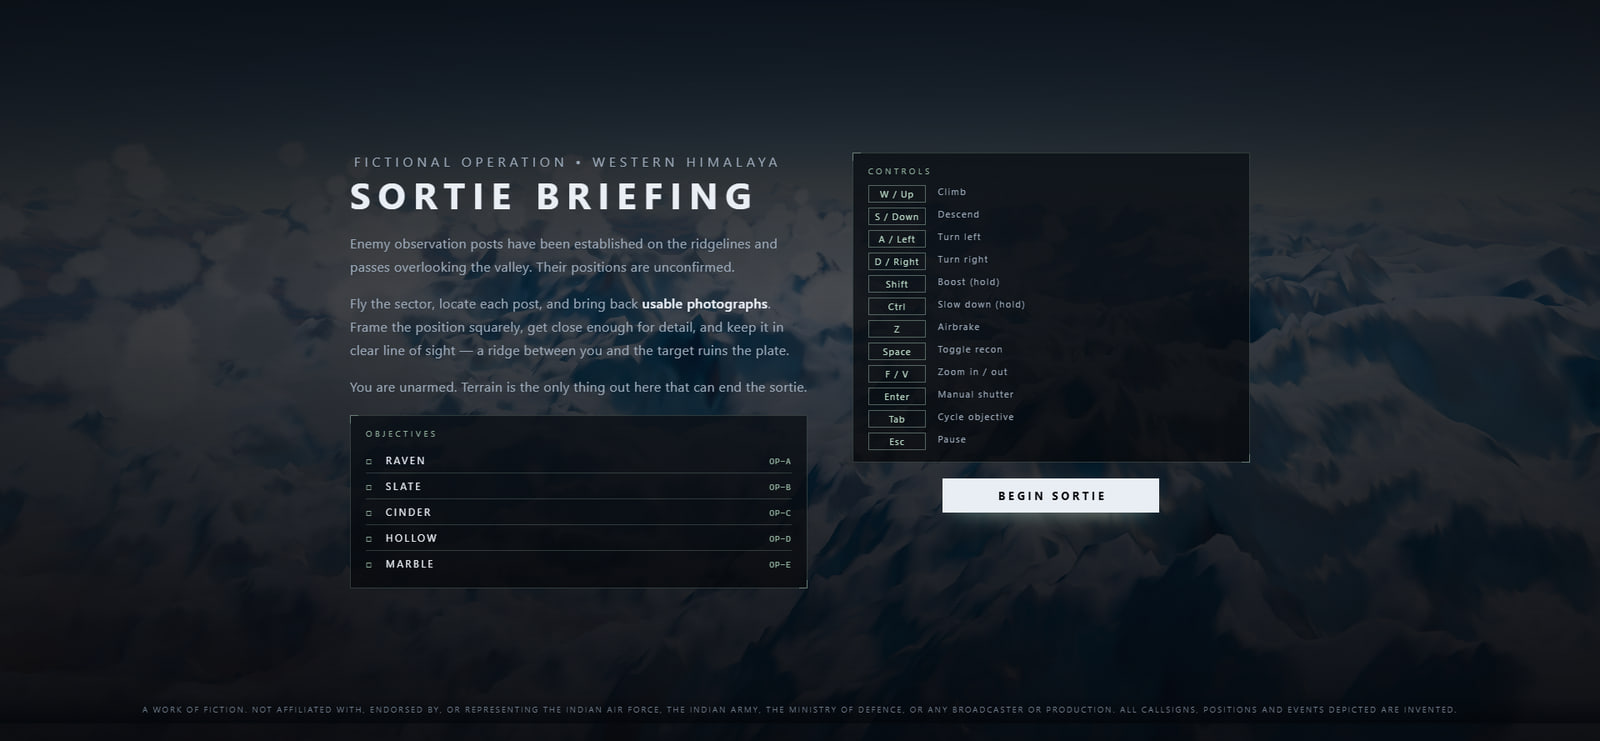
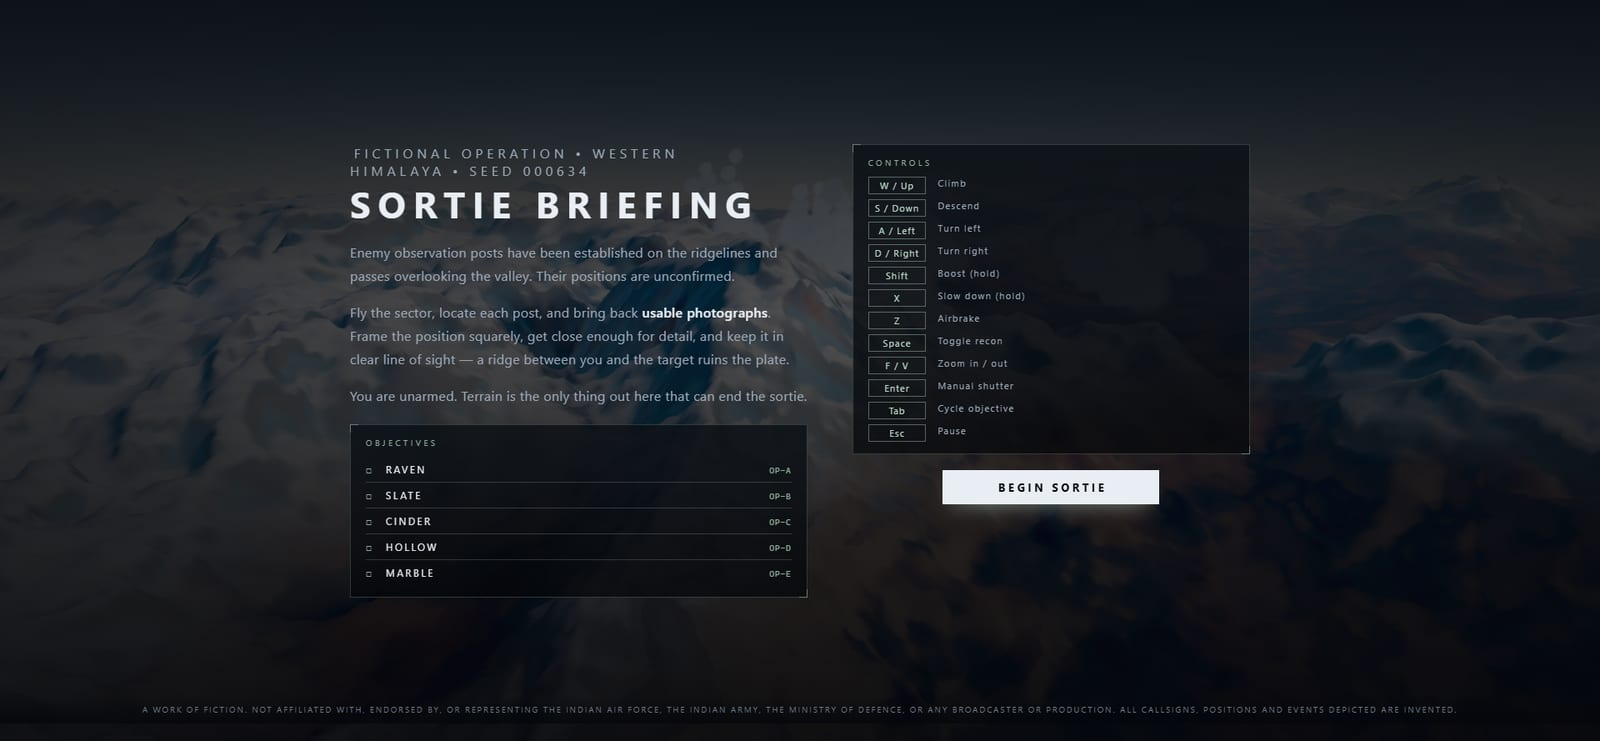
docs: changelog, seeded-sortie section and screenshots that show the new light

diff --git a/README.md b/README.md
@@ -8,7 +8,7 @@ nose-mounted optic, bring back usable photographs, and come home.
 
 No weapons. No dogfights. Terrain is the only thing out here that can end the sortie.
 
-![Cruising above the cloud deck](docs/screenshots/04-cruise.jpg)
+![Cruise over the range on seed 000634, snow and exposed rock under a low sun](docs/screenshots/04-cruise.jpg)
 
 Runs entirely in the browser on WebGL2. Two runtime dependencies —
 [three.js](https://threejs.org) and
@@ -27,6 +27,7 @@ repository.
   - [Flight model and camera](#flight-model-and-camera)
   - [Terrain](#terrain)
   - [Sky, clouds and atmosphere](#sky-clouds-and-atmosphere)
+  - [The sortie](#the-sortie)
   - [Reconnaissance](#reconnaissance)
   - [Presentation](#presentation)
   - [Audio](#audio)
@@ -34,6 +35,7 @@ repository.
   - [Accessibility](#accessibility)
 - [Project layout](#project-layout)
 - [Development](#development)
+- [Changelog](#changelog)
 - [Credits and licences](#credits-and-licences)
 - [A note on the subject](#a-note-on-the-subject)
 
@@ -81,7 +83,7 @@ one you last used.
 | `Esc` | Pause |
 | `` ` `` | Diagnostics panel (frame rate, render scale, detected tier) |
 
-![Sortie briefing](docs/screenshots/02-briefing.jpg)
+![Sortie briefing, named by its seed](docs/screenshots/02-briefing.jpg)
 
 ---
 
@@ -103,7 +105,7 @@ the airframe with no envelope protection at all.
 The chase camera is a spring rig with look-ahead, damping, speed-dependent FOV
 and distance, and restrained vibration that rises with airspeed and G.
 
-![Low-level through a valley at 1,100 km/h](docs/screenshots/05-lowlevel.jpg)
+![Low level at 935 km/h, with the radar altimeter reading 657 m](docs/screenshots/05-lowlevel.jpg)
 
 ### Terrain
 
@@ -142,10 +144,34 @@ the shadow crossing the snow below belongs to a cloud that is really overhead.
 
 ![Cumulus at deck level](docs/screenshots/11-clouds.jpg)
 
+### The sortie
+
+One seed decides everything that is not the aircraft: where in the world the
+sortie happens, where the sun is and how warm it is, and how much cloud the
+weather model puts overhead. The terrain is a pure function of world coordinates
+and effectively infinite, so moving the origin is all it takes to make the map
+new — nothing is generated ahead of time and nothing is stored.
+
+The daily rotation walks a list of **ten curated seeds**, one per day. The list
+is curated rather than random because a uniform generator will happily open a
+sortie on a gentle plateau under a high sun: these were screened across 1,200
+seeds for a sun low enough that the terrain's baked shadows have something to
+show, cloud that gives the deck shape without closing the valleys, and better
+than 3.9 km of relief around the start — then flown and looked at. Their sun
+azimuths spread right around the compass, so consecutive days do not light the
+mountains the same way.
+
+Everyone flying on a given UTC day gets the same sortie, which is the only thing
+that makes a fastest-sortie board comparable at all; the board is scoped to the
+seed, so today's times are ranked against today's course and yesterday's survive
+untouched. `?seed=N` pins any sortie you like, for sharing or for practice, and
+the briefing and record card name it.
+
 ### Reconnaissance
 
-Five fictional observation posts are placed on ridgelines, passes and mountain
-shoulders. Each is built from features chosen for what they do at a particular
+Five fictional observation posts are sited on ridgelines, passes and mountain
+shoulders — somewhere different every day, by a search over the height field
+rather than by hand. Each is built from features chosen for what they do at a particular
 distance: pitched-roof shelters carry the silhouette at range because no mountain
 makes a ridge line and two sloped planes; rows of fuel drums at even 2.15 m
 centres read as *rhythm* even when they are a few pixels tall; rust and weathered
@@ -154,9 +180,16 @@ mast is the giveaway from the air.
 
 ![MARBLE observation post at 1 km through the 4x optic](docs/screenshots/07-post.jpg)
 
-Photographs are scored on target visibility, framing, range, screen coverage and
-viewing angle. Line of sight is checked against the height field, so a ridge
-between you and the post ruins the plate.
+Photographs are scored on target visibility, framing, range, screen coverage,
+viewing angle — and how the pass was flown. Line of sight is checked against the
+height field along the whole run in to the target, so a ridge between you and the
+post ruins the plate.
+
+The positions start **unconfirmed**, which is what the briefing has always said.
+Until you have actually seen one, the instrument gives a compass sector and a
+range band; the precise bearing and range unlock the moment the optic finds it.
+That is the difference between flying a search and flying to a waypoint, and it
+is what the posts' long-range silhouettes were designed for.
 
 Entering and leaving the optic is a bounded, eased transition in both directions —
 both camera rigs run every frame and their poses are blended, with the field of
@@ -283,7 +316,7 @@ Tests are plain `node:test` suites next to the code they cover:
 node --test "src/**/*.test.mjs"
 ```
 
-250 tests currently pass, alongside `npm run check` and `npm run build`.
+254 tests currently pass, alongside `npm run check` and `npm run build`.
 
 A sortie is described entirely by one seed: where in the world it happens, the
 sun elevation and azimuth, and the cloud coverage. Everyone flying on a given
@@ -306,6 +339,72 @@ screenshots above were captured:
 | `__audit()` | Buffered console entries, GL errors, draw call and program counts |
 
 `?debug` in the URL forces the diagnostics panel on before the first frame.
+
+---
+
+## Changelog
+
+### August 2026 — audit remediation
+
+A deep audit of the core systems and graphics pipeline, and the work that came
+out of it. Everything below is on `main`; the findings, the measurements and the
+two claims the implementation disproved are written up in
+[`docs/superpowers/specs/2026-08-16-audit-remediation-design.md`](docs/superpowers/specs/2026-08-16-audit-remediation-design.md).
+
+**The sortie is no longer the same every time.** `START` was a constant and the
+post search is deterministic, so every sortie anyone had ever flown was the same
+five positions in the same five places. One seed now sets the origin, the sun and
+the weather, rotating daily through ten curated seeds — see
+[The sortie](#the-sortie).
+
+**The positions have to be found.** The briefing always said they were
+unconfirmed while the HUD printed an exact bearing and range from the first
+frame. Until a position is visually acquired you now get a sector and a range
+band.
+
+**The light lets the terrain show its shape.** The clipmap already ray-marches a
+real shadow per heightmap texel; a 46° sun and shadow floors lifted to 30–42%
+left it almost nothing to record, so ridgelines read as smooth clay. The sun came
+down to 24°, the floors to 6–12%, sky fill now falls with the sun, ambient is
+occluded, and the snow albedo lost the 26% blue bias it was carrying on top of
+blue sky light. Measured over a sunlit snowfield: cast-shadow contrast rose from
+0.50 to about 1.5 stops, the brightest pixel from 207 to 227 of 255, and red rose
+against blue from 0.52 to 0.75.
+
+**Soft particles work on the tier the reference hardware picks.** The composer's
+depth texture was allocated only when a *post-processing pass* asked for it — but
+the cloud billboards and the GPU FX materials are scene objects, invisible to
+that check. They were dead on medium, low and phone. Cost of the fix on medium,
+measured: 0.03 ms a frame.
+
+**Scoring rewards the flying.** Three of four sub-scores used to pin at 1.0 on a
+naive approach, so EXCELLENT was the default and no term depended on how the
+aircraft was being flown. A committed run now scores 0.96; the same framing flown
+high and slow scores 0.80.
+
+**Instruments and interface.** A radar altimeter — the one number that matters in
+a game where terrain is the only threat, and it had lived only in the debug
+panel. Record-card plates crop toward the objective instead of showing a dark
+speck in a snowfield. On a phone the primary action stays pinned within reach
+rather than scrolling off the bottom.
+
+**Correctness.** `Enter` no longer wipes a finished sortie from the debrief. Line
+of sight tests the whole run in, at a spacing narrower than a ridge — it used to
+stop 10% short and sample too coarsely to see a ridge at range. The sortie clock
+counts simulated time, so leaderboard entries are comparable across hardware. The
+title camera clears the terrain it orbits, which seven of the ten curated seeds
+would otherwise have flown it straight through. One WebGL2 context is acquired
+instead of a probe context being leaked, which is what stopped the experience
+loading on iOS. The nozzle ring sits on the exhaust axis rather than a quarter
+turn across it.
+
+**Also fixed:** the vendor chunk split (the chunk named `three` held GLTFLoader
+while three.js shipped inside the one named `postprocessing`), the adaptive
+scaler's occlusion guard (unreachable, because the caller clamped the frame time
+below the threshold it tested), HUD tape ticks on tall viewports, audio beds left
+running in a hidden tab, a 512-step CPU ray march recomputing a constant every
+frame, lens flare aspect, heat shimmer anchored to the exhaust, and motion blur
+converging on the velocity vector instead of the middle of the screen.
 
 ---
 
